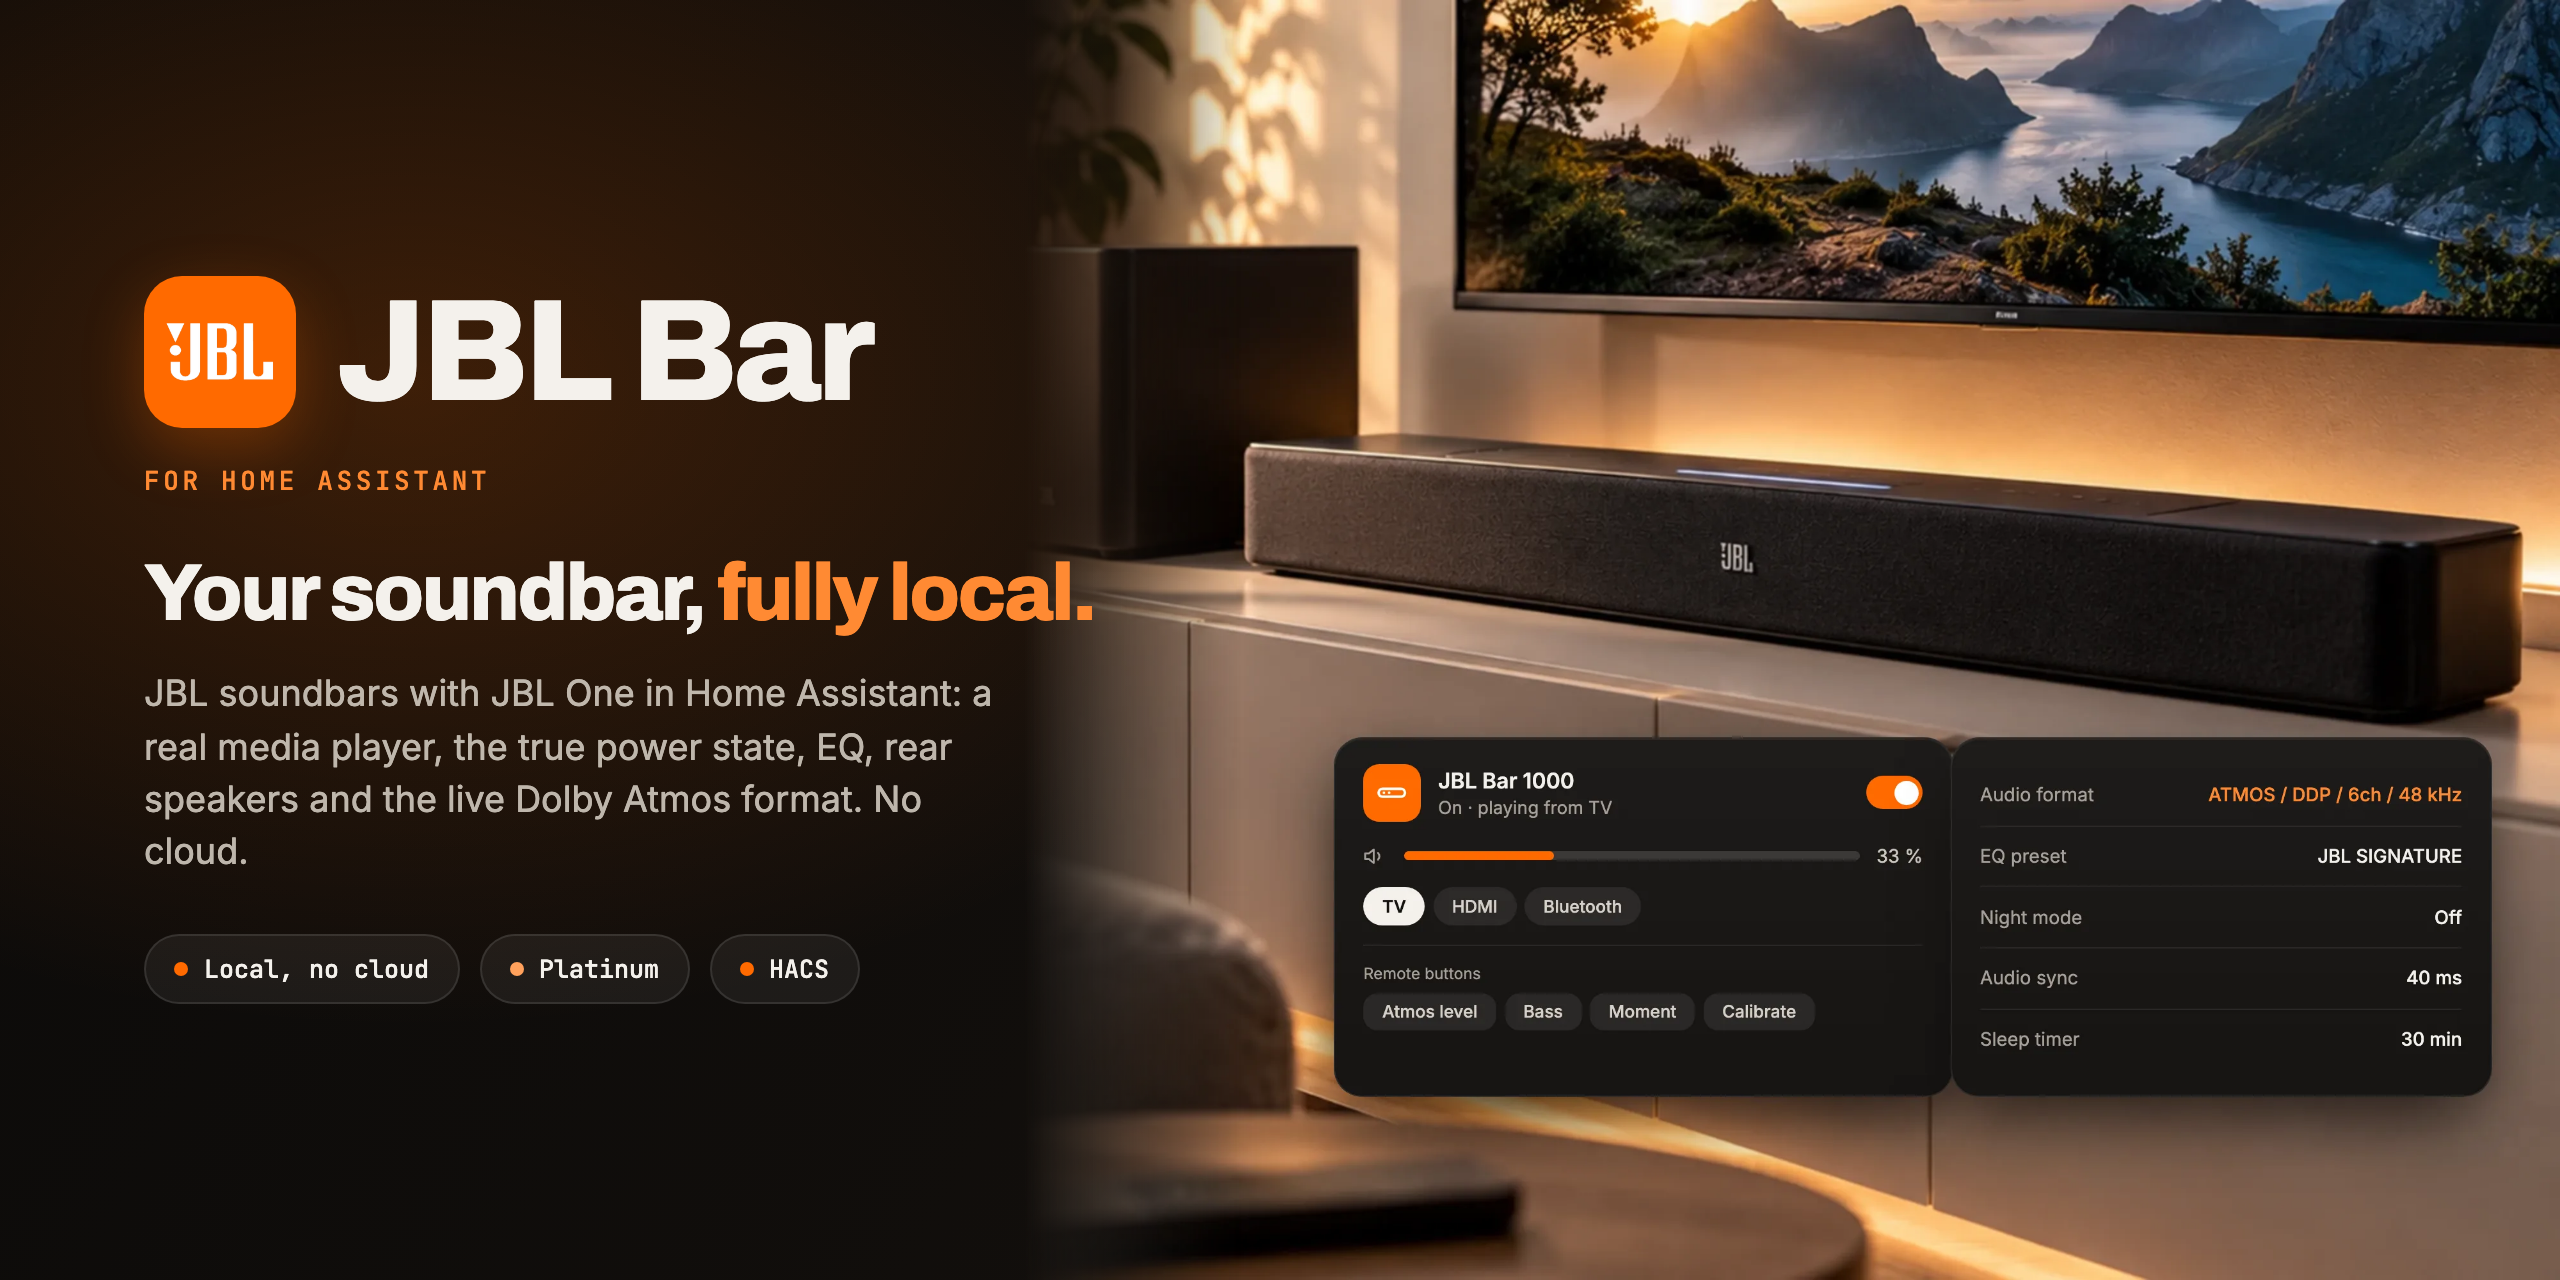
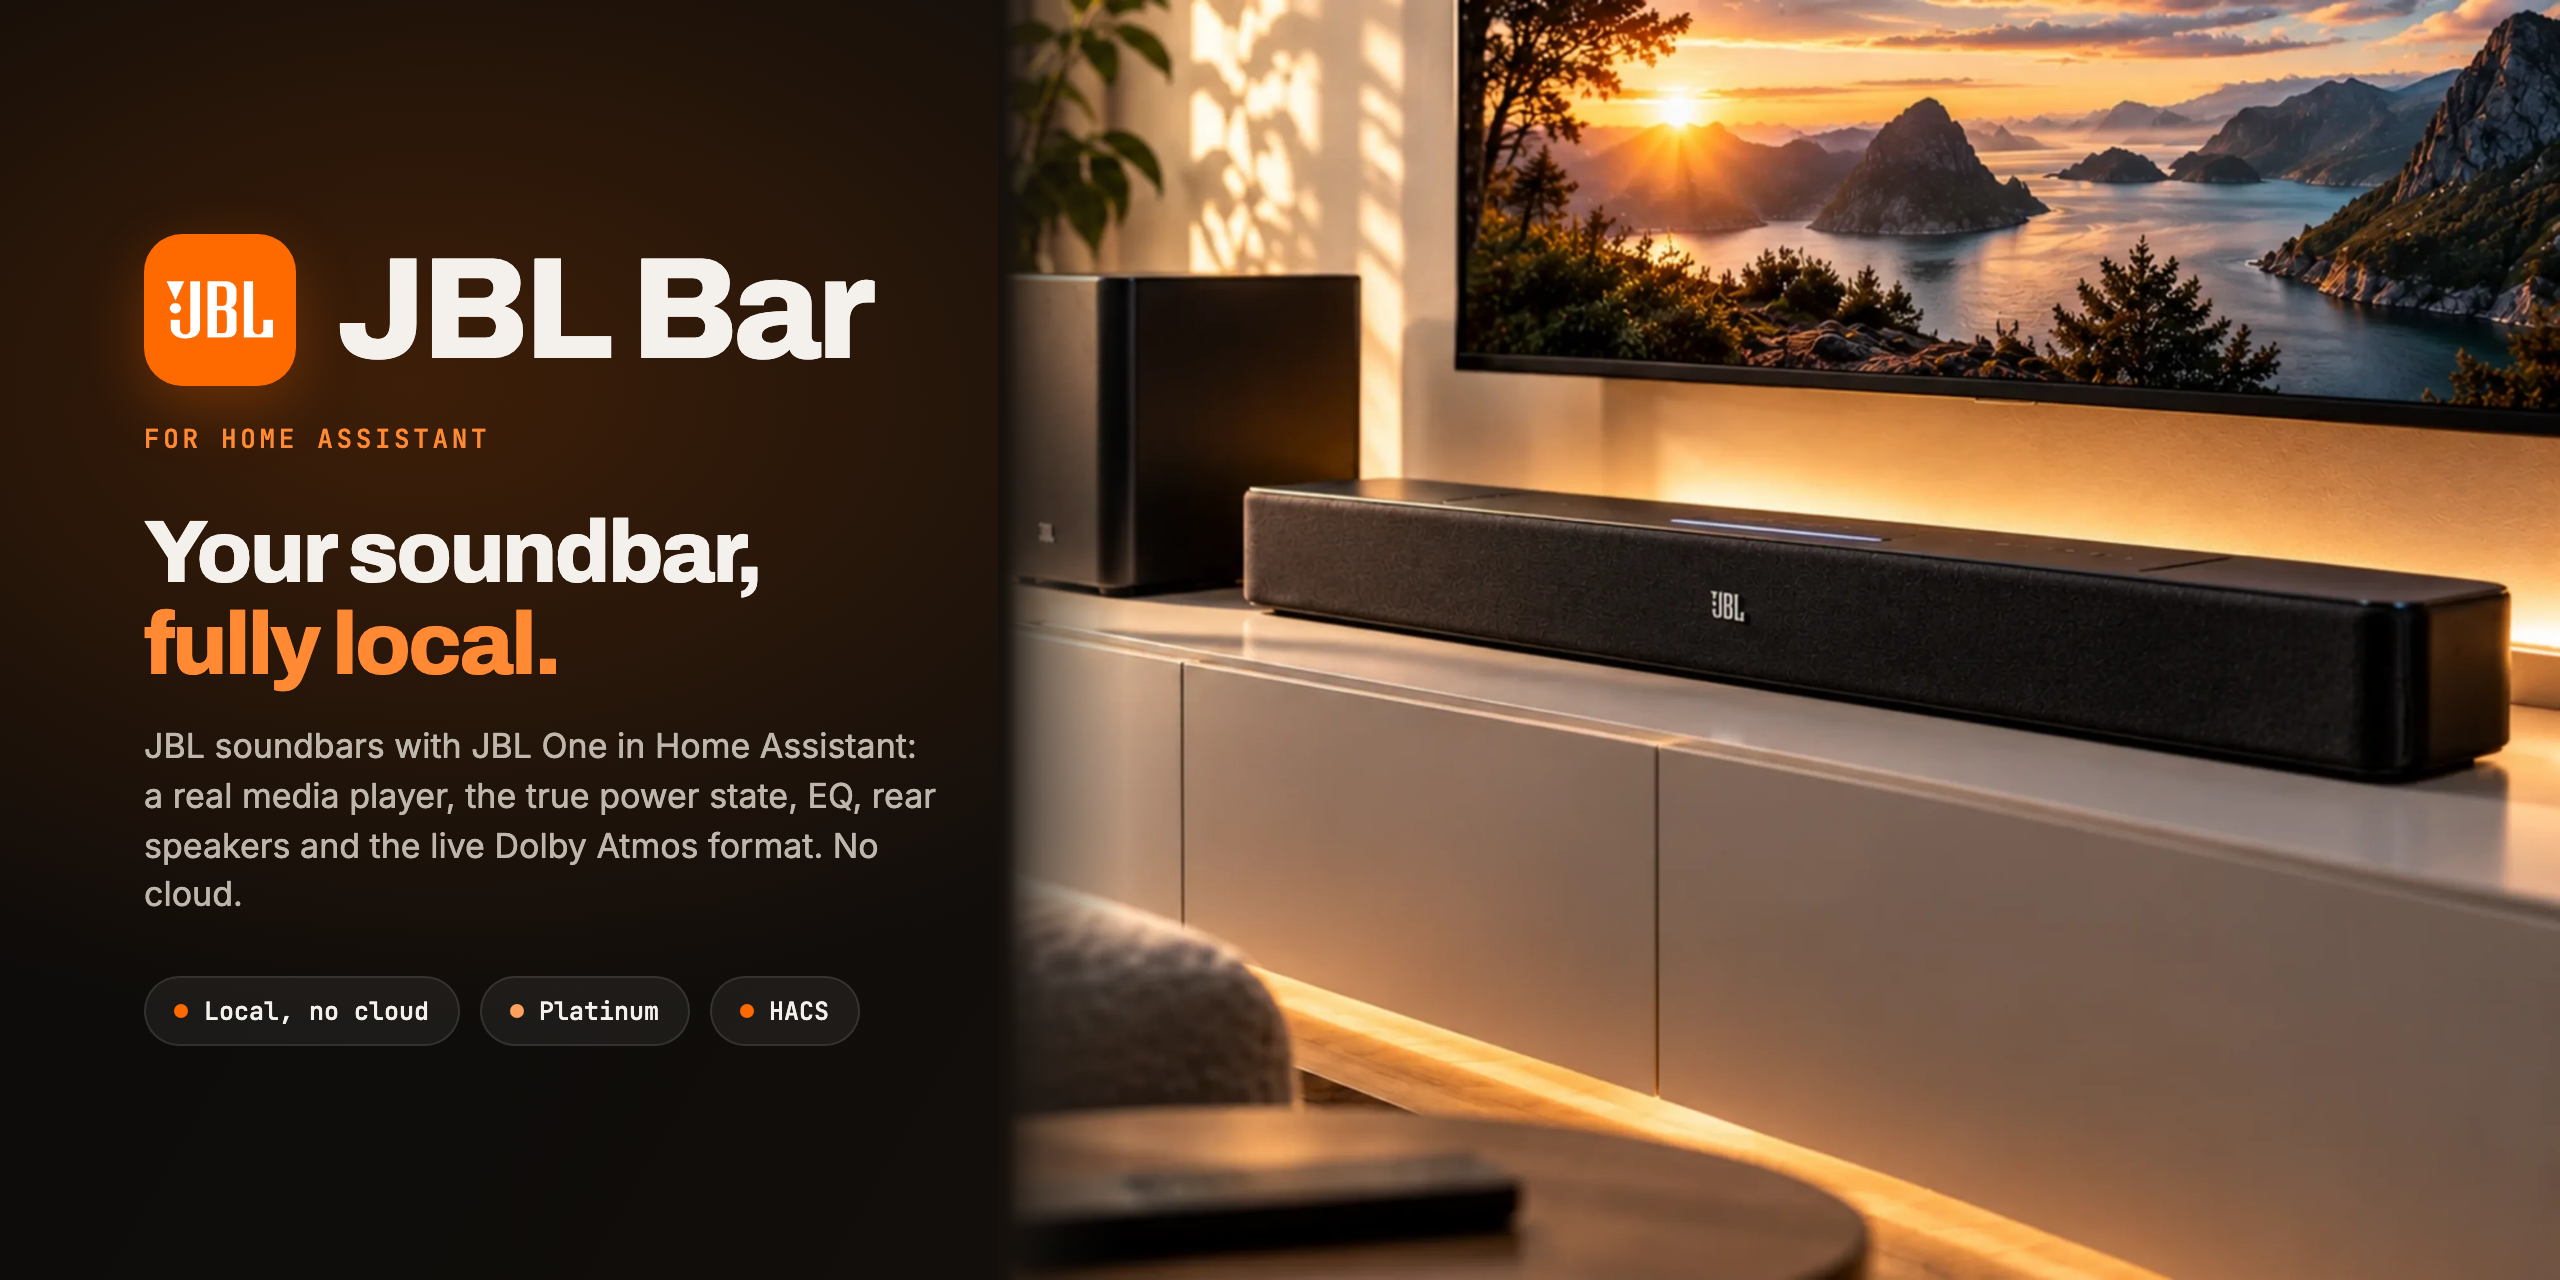
docs: new scene picture without panels, subwoofer fully visible
hero-photo and hero-scene rebuilt from the new AI-generated scene (no UI
panels, so no cards drawn over it; metadata stripped). The crop starts right
at the subwoofer, the leftover period of the template's headline is covered
with the surrounding sideboard surface. The README title uses a two-line
headline and a narrow seam so the subwoofer stays visible.

Claude-Session: https://claude.ai/code/session_01ULsc5ZrKnvkcrEhHsqXvCz

diff --git a/tools/readme-title.html b/tools/readme-title.html
@@ -15,21 +15,24 @@
 <link href="https://fonts.googleapis.com/css2?family=Archivo:wght@700;800&family=Inter:wght@400;500;600&family=JetBrains+Mono:wght@500&display=swap" rel="stylesheet">
 <style>
   :root { --bg: #F7F5F2; --bg-2: #EFE7DD; --ink: #161412; --ink-2: #57514B; --accent-text: #E85F00; --accent: #FF6A00; --accent-2: #FFA15C;
-    --glow-1: rgba(255,106,0,0.14); --pill-bg: #ffffff; --pill-line: rgba(40,30,20,0.08); --pill-shadow: 0 4px 14px rgba(60,40,20,0.08); }
+    --glow-1: rgba(255,106,0,0.14); --pill-bg: #ffffff; --pill-line: rgba(40,30,20,0.08); --pill-shadow: 0 4px 14px rgba(60,40,20,0.08); --bg-seam: #F2EBE3; }
   :root.dark { --bg: #0B0A09; --bg-2: #17120E; --ink: #F4F1EC; --ink-2: rgba(222,214,204,0.84); --accent-text: #FF8A33;
-    --glow-1: rgba(255,106,0,0.2); --pill-bg: rgba(255,255,255,0.06); --pill-line: rgba(255,255,255,0.10); --pill-shadow: none; }
+    --glow-1: rgba(255,106,0,0.2); --pill-bg: rgba(255,255,255,0.06); --pill-line: rgba(255,255,255,0.10); --pill-shadow: none; --bg-seam: #15100C; }
   * { box-sizing: border-box; margin: 0; }
   body { width: 1280px; height: 640px; overflow: hidden; position: relative; font-family: "Inter", system-ui, sans-serif; color: var(--ink);
     background: radial-gradient(800px 520px at 16% 30%, var(--glow-1), transparent 62%), linear-gradient(120deg, var(--bg) 0%, var(--bg-2) 100%); }
   .photo { position: absolute; right: 0; top: 0; height: 640px; width: auto; }
-  .left { position: absolute; left: 72px; top: 0; bottom: 0; width: 520px; display: flex; flex-direction: column; justify-content: center; }
+  /* Soft seam between background and photo, narrow so the subwoofer at the photo's left edge stays visible */
+  .seam { position: absolute; top: 0; bottom: 0; left: calc(1280px - 640px * 1219 / 1000 - 1px); width: 64px;
+    background: linear-gradient(90deg, var(--bg-seam) 0%, color-mix(in srgb, var(--bg-seam) 55%, transparent) 35%, transparent 100%); }
+  .left { position: absolute; left: 72px; top: 0; bottom: 0; width: 410px; display: flex; flex-direction: column; justify-content: center; }
   .brand { display: flex; align-items: center; gap: 20px; }
   .brand img { width: 76px; height: 76px; border-radius: 19px; box-shadow: 0 10px 30px rgba(255,106,0,0.28); }
   .brand h1 { font-family: "Archivo", system-ui, sans-serif; font-weight: 800; font-size: 72px; letter-spacing: -0.035em; line-height: 1; }
   .eyebrow { margin-top: 18px; font-family: "JetBrains Mono", monospace; font-weight: 500; font-size: 13px; letter-spacing: 0.14em; text-transform: uppercase; color: var(--accent-text); }
-  .lead { margin-top: 26px; font-family: "Archivo", system-ui, sans-serif; font-weight: 800; font-size: 40px; letter-spacing: -0.03em; line-height: 1.08; }
+  .lead { margin-top: 26px; font-family: "Archivo", system-ui, sans-serif; font-weight: 800; font-size: 44px; letter-spacing: -0.03em; line-height: 1.04; }
   .lead em { font-style: normal; color: var(--accent-text); }
-  .sub { margin-top: 16px; font-size: 18px; line-height: 1.45; color: var(--ink-2); max-width: 430px; }
+  .sub { margin-top: 16px; font-size: 17px; line-height: 1.45; color: var(--ink-2); max-width: 400px; }
   .pills { margin-top: 28px; display: flex; flex-wrap: wrap; gap: 10px; }
   .pill { font-family: "JetBrains Mono", monospace; font-size: 12.5px; font-weight: 500; padding: 8px 14px; border-radius: 999px; background: var(--pill-bg);
     border: 1px solid var(--pill-line); box-shadow: var(--pill-shadow); color: var(--ink); display: inline-flex; align-items: center; gap: 8px; }
@@ -40,10 +43,11 @@
 </head>
 <body>
   <img class="photo" src="../docs/images/hero-photo.webp" alt="">
+  <div class="seam"></div>
   <div class="left">
     <div class="brand"><img src="../docs/images/readme-icon.png" alt=""><h1>JBL Bar</h1></div>
     <div class="eyebrow">For Home Assistant</div>
-    <div class="lead">Your soundbar, <em>fully local.</em></div>
+    <div class="lead">Your soundbar,<br><em>fully local.</em></div>
     <div class="sub">JBL soundbars with JBL One in Home Assistant: a real media player, the true power state, EQ, rear speakers and the live Dolby Atmos format. No cloud.</div>
     <div class="pills"><span class="pill"><i></i>Local, no cloud</span><span class="pill v"><i></i>Platinum</span><span class="pill"><i></i>HACS</span></div>
   </div>

diff --git a/docs/index.html b/docs/index.html
@@ -104,7 +104,7 @@ section.tint { background: var(--bg-2); }
 .pill i { width: 7px; height: 7px; border-radius: 50%; background: var(--orange); display: inline-block; }
 
 /* Bühne: Szene (KI-Bild) mit Karten darunter (bleibt in beiden Themes dunkel) */
-.scene { display: block; width: calc(100% + 2 * clamp(16px, 4vw, 48px)); max-width: none; margin: 0 calc(-1 * clamp(16px, 4vw, 48px)); aspect-ratio: 1188 / 570; object-fit: cover; border-radius: var(--radius-lg) var(--radius-lg) 0 0;
+.scene { display: block; width: calc(100% + 2 * clamp(16px, 4vw, 48px)); max-width: none; margin: 0 calc(-1 * clamp(16px, 4vw, 48px)); aspect-ratio: 1219 / 620; object-fit: cover; border-radius: var(--radius-lg) var(--radius-lg) 0 0;
   -webkit-mask-image: linear-gradient(180deg, #000 72%, transparent); mask-image: linear-gradient(180deg, #000 72%, transparent); }
 .stage { position: relative; margin: clamp(48px, 7vw, 84px) auto 0; max-width: 1000px; border-radius: var(--radius-lg); padding: 0 clamp(16px, 4vw, 48px) clamp(28px, 5vw, 56px);
   background: radial-gradient(ellipse at 50% 0%, #2a1a0e, #0d0b0a 70%); box-shadow: var(--shadow-lg), inset 0 0 0 1px rgba(255,255,255,0.06); color: #f4f1ec; }
@@ -304,7 +304,7 @@ footer .fine { flex-basis: 100%; line-height: 1.6; }
     </p>
 
     <div class="stage reveal d3" role="img" aria-label="Illustration: a soundbar with its subwoofer below a TV in warm evening light, below it a media player card and a list of entity values. AI-generated scene, made-up values.">
-      <img class="scene" src="images/hero-scene.webp" width="2376" height="1140" fetchpriority="high" alt="">
+      <img class="scene" src="images/hero-scene.webp" width="2438" height="1240" fetchpriority="high" alt="">
       <div class="cards" style="margin-top: clamp(-28px, -2vw, -12px); position: relative;">
         <div class="hc">
           <div class="top">

diff --git a/README.md b/README.md
@@ -2,7 +2,7 @@
 
 <picture>
   <source media="(prefers-color-scheme: dark)" srcset="docs/images/readme-title-dark.png" />
-  <img src="docs/images/readme-title-light.png" alt="JBL Bar: Your soundbar, fully local. A soundbar with its subwoofer below a TV in warm evening light, with a media player card (on, playing from TV, volume 33 percent) and a card with the audio format ATMOS / DDP / 6ch / 48 kHz. AI-generated scene, made-up values." />
+  <img src="docs/images/readme-title-light.png" alt="JBL Bar: Your soundbar, fully local. A soundbar with its subwoofer below a TV in warm evening light (AI-generated scene)." />
 </picture>
 
 <p>Local control for JBL soundbars with JBL One in Home Assistant.<br/>
